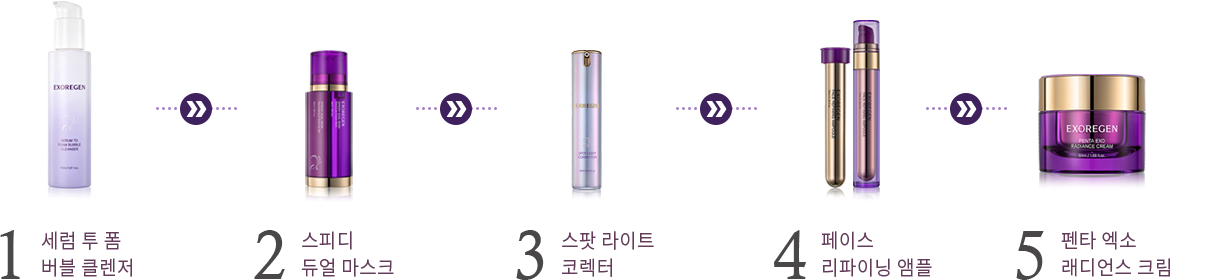
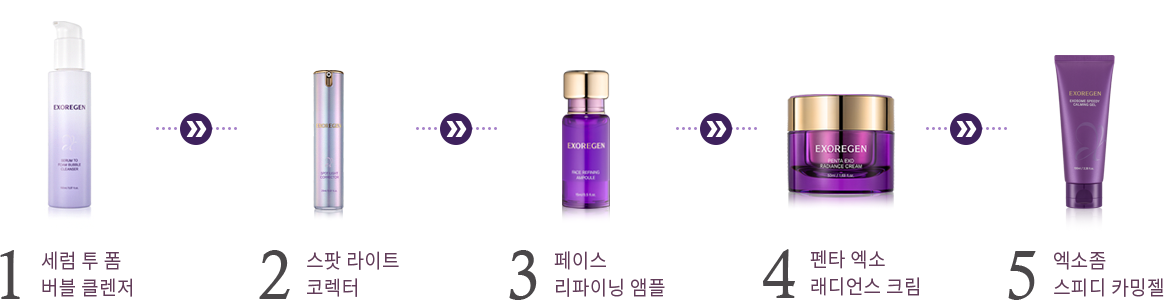
[PC/스킨케어순서] 전체 이미지 변경

diff --git a/howtouse02.html b/howtouse02.html
@@ -330,7 +330,9 @@
                                 <span>사용순서</span>
                             </span>
                         </p>
-                        <div class="cont-img cont1-img"></div>
+                        <div class="cont-img">
+                            <img src="/img_/howtouse/htu-1.png?ver=221230" alt="" />
+                        </div>
                     </div>
 
                     <div class="cont cont2">
@@ -340,7 +342,9 @@
                                 <span>사용순서</span>
                             </span>
                         </p>
-                        <div class="cont-img cont2-img"></div>
+                        <div class="cont-img">
+                            <img src="/img_/howtouse/htu-2.png?ver=221230" alt="">
+                        </div>
                     </div>
 
                     <div class="cont cont3">
@@ -350,7 +354,9 @@
                                 <span>사용순서</span>
                             </span>
                         </p>
-                        <div class="cont-img cont3-img"></div>
+                        <div class="cont-img">
+                            <img src="/img_/howtouse/htu-3.png?ver=221230" alt="">
+                        </div>
                     </div>
 
                     <div class="cont cont4">
@@ -360,7 +366,9 @@
                                 <span>사용순서</span>
                             </span>
                         </p>
-                        <div class="cont-img cont4-img"></div>
+                        <div class="cont-img">
+                            <img src="/img_/howtouse/htu-4.png?ver=221230" alt="">
+                        </div>
                     </div>
 
                     <div class="cont cont5">
@@ -369,7 +377,9 @@
                                 <span class="bold">데일리케어</span>
                             </span>
                         </p>
-                        <div class="cont-img cont5-img"></div>
+                        <div class="cont-img"> 
+                            <img src="/img_/howtouse/htu-5.png?ver=221230" alt="">
+                        </div>
                     </div>
                 </div>
             </div>

diff --git a/src_/css/howtouse.css b/src_/css/howtouse.css
@@ -98,17 +98,8 @@
 
 .howtouse02 .cont-wrap .cont .guide-txt > span span.bold { font-weight: 600; } 
 
-.howtouse02 .cont-wrap .cont-img { width: 100%; height: 0; padding-bottom: calc(285 / 1220 * 100%); background-repeat: no-repeat; margin-top: 70px; } 
+.howtouse02 .cont-wrap .cont-img { width: 100%; margin-top: 70px; } 
 
-.howtouse02 .cont-wrap .cont1-img { background-image: url(/img_/howtouse/htu-1.png); } 
-
-.howtouse02 .cont-wrap .cont2-img { background-image: url(/img_/howtouse/htu-2.png); } 
-
-.howtouse02 .cont-wrap .cont3-img { background-image: url(/img_/howtouse/htu-3.png); } 
-
-.howtouse02 .cont-wrap .cont4-img { background-image: url(/img_/howtouse/htu-4.png); } 
-
-.howtouse02 .cont-wrap .cont5-img { background-image: url(/img_/howtouse/htu-5.png); } 
 /*...02*/
 
 /* 03 */
